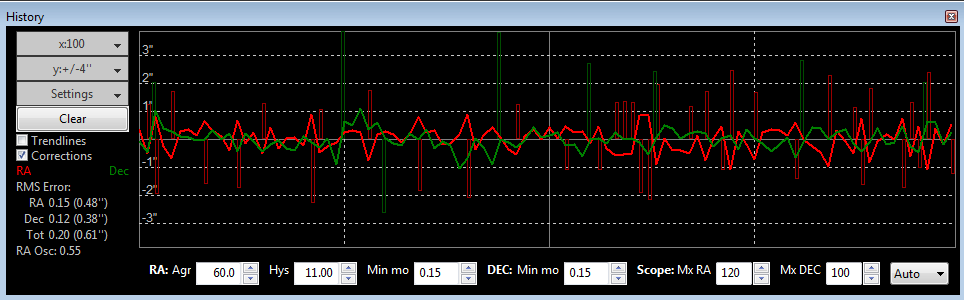
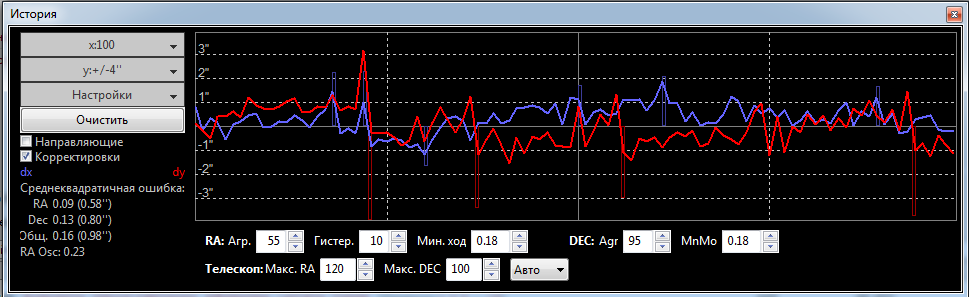
update Russian help translation

Changed region(s): [[0.0, 0.0, 1.0, 1.0], [0.3112, 0.6364, 0.3423, 0.6667]]

diff --git a/locale/ru_RU/help/Visualization.htm b/locale/ru_RU/help/Visualization.htm
@@ -20,7 +20,7 @@
           звезды и прицела</a></li>
       <li><a href="#Adaptive_Optics_AO_Graph">График адаптивной оптики<br>
         </a></li>
-      <li><a href="#DockableMoveable_Graphical_Windows">Dockable Windows</a></li>
+      <li><a href="#DockableMoveable_Graphical_Windows">Закреплённые окна</a></li>
     </ul>
     <h3><a name="Overlays"></a>Наложения</h3>
     Простейшее средство отображение, представляющее собой различные
@@ -43,16 +43,16 @@
     <h3><a name="Graphical_Display"></a>Графический экран<br>
     </h3>
     Наиболее мощное средство для оценки производительности гидирования,
-    требующее некоторой подготовки для использования.&nbsp; Вот типичн
+    требующее некоторой подготовки для использования.&nbsp; Вот типичный
     пример экрана:&nbsp; <br>
     <br>
-    <img style="width: 964px; height: 300px;" alt=""
+    <img style="width: 969px; height: 297px;" alt=""
       src="Guider_Graph.png"><br>
     <br>
     <br>
     Большая часть экрана подробно показывает отклонения опорной звезды
     для каждого гидирующего кадра, нарисованные слева направо.&nbsp;
-    Обычно одна диния показывает отклонения по оси прямого восхождения,
+    Обычно одна линия показывает отклонения по оси прямого восхождения,
     другая по оси склонения.&nbsp; Однако, с помощью кнопки
     'Настройки'&nbsp; в левой части экрана можно переключиться на
     позиционирование относительно сенсора камеры&nbsp; (X/Y) .&nbsp;
@@ -68,7 +68,6 @@
     по обеим.&nbsp; Пожалуй, это лучшие оценочные критерии эффективности
     гидирования, поскольку их можно сравнить с размером звезды и
     условиями видимости.&nbsp; Значение '<a name="RA_Osc"></a>Колеб.RA'&nbsp;
-
 
     показывает вероятность, что&nbsp; движение по оси прямого
     восхождения будет противоположно предыдущему.&nbsp; Если гидирование
@@ -110,7 +109,7 @@
     также в окне настроек, вызываемому кнопкой 'Мозг', но во время
     гидирования проще и быстрее их изменять здесь.<br>
     <h3><a name="Stats_Display"></a>Статистика</h3>
-    <img style="width: 227px; height: 257px;" alt="Stats_window"
+    <img style="width: 247px; height: 351px;" alt="Stats_window"
       src="Stats_window.PNG"><br>
     <br>
     Если выхотите наблюдать за гидированием, не открывая графическое
@@ -121,7 +120,7 @@
     <h3><a name="Star_Profile_and_Target_Displays"></a>Экраны профиля
       звезды и прицела<br>
     </h3>
-    <img style="width: 395px; height: 247px;" alt=""
+    <img style="width: 322px; height: 197px;" alt=""
       src="Star_profile.png"><br>
     <br>
     Экран профиля звезды показывает гидируемую звезду с перекрестьем, а
@@ -129,7 +128,7 @@
     Значительное изменение этого параметра говорит о том, что звезда
     слишком слаба или выдержка слишком короткая. &nbsp;<br>
     <br>
-    <img style="width: 622px; height: 489px;" alt=""
+    <img style="width: 628px; height: 490px;" alt=""
       src="Target_display.png"><br>
     <br>
     Ещё одно полезное для оценки производительности окно.&nbsp; Красная
@@ -155,8 +154,7 @@
     усреднённое положение АО.&nbsp; Кнопка в левом верхнем углу
     определяет количество используемых исторических значений.
     <h3><a name="DockableMoveable_Graphical_Windows"></a>Закреплённые/перемещаемые
-
-      графические окна Graphical Windows</h3>
+    графические окна</h3>
     Изначально окна "закреплены" на главном экране.&nbsp; Это означает,
     что при изменении размеров главного экрана изменяются размеры и
     закреплённых на нём окон.&nbsp; Однако, их можно перетаскивать с
@@ -167,11 +165,9 @@
     область и отпустив кнопку мыши.<br>
     <br>
     Кроме того, выбор пункта <a name="Restore_window_positions"></a>'Восстановить
-
     расположение окон' меню 'Вид' автоматически закрепит окна по
     умолчанию.&nbsp; Это может быть полезным, к примеру, в случае
     "потери" одного из окон в результате их частых перемещений.&nbsp;
-    Размер и расположение основного окна PHD2 также будут восстановлены<br>
-    .
+    Размер и расположение основного окна PHD2 также будут восстановлены.<br>
   </body>
 </html>
